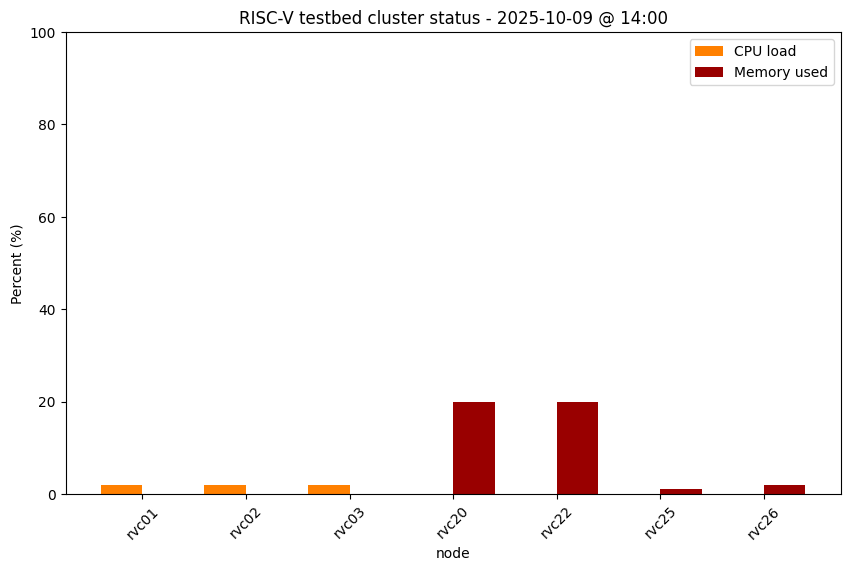
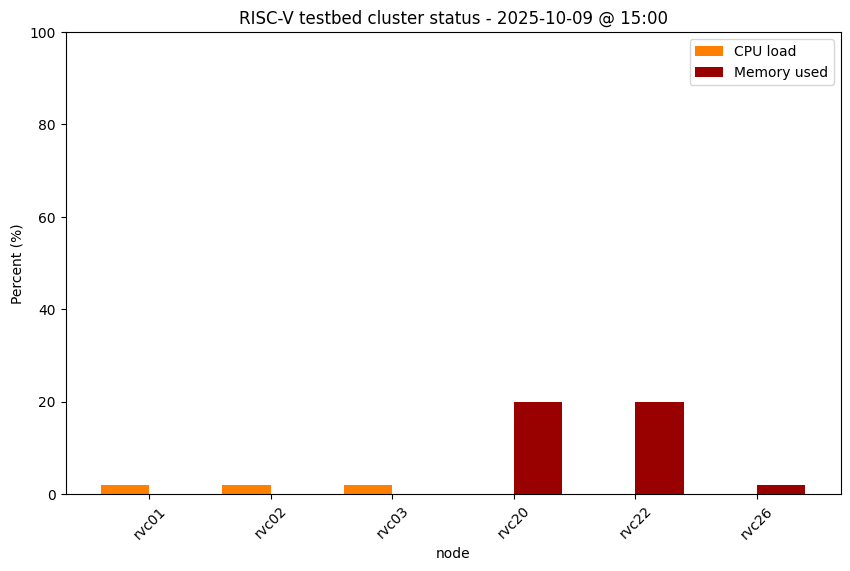
Update cluster status

diff --git a/status.md b/status.md
@@ -37,6 +37,6 @@ permalink: /status/
 | StarFive VisionFive V2 #12 | rvc22 | 4 | 8GB | <img src="/images/on.png" alt="green light" width="10"/> up |
 | StarFive VisionFive V2 #13 | rvc23 | 4 | 8GB | <img src="/images/amber.png" alt="amber light" width="10"/> offline |
 | Milk-V Pioneer #1 | rvc24 | 64 | 128GB | <img src="/images/off.png" alt="red light" width="10"/> down |
-| Milk-V Pioneer #2 | rvc25 | 64 | 128GB | <img src="/images/on.png" alt="green light" width="10"/> up |
+| Milk-V Pioneer #2 | rvc25 | 64 | 128GB | <img src="/images/off.png" alt="red light" width="10"/> down |
 | Milk-V Pioneer #3 | rvc26 | 64 | 128GB | <img src="/images/on.png" alt="green light" width="10"/> up |
 
